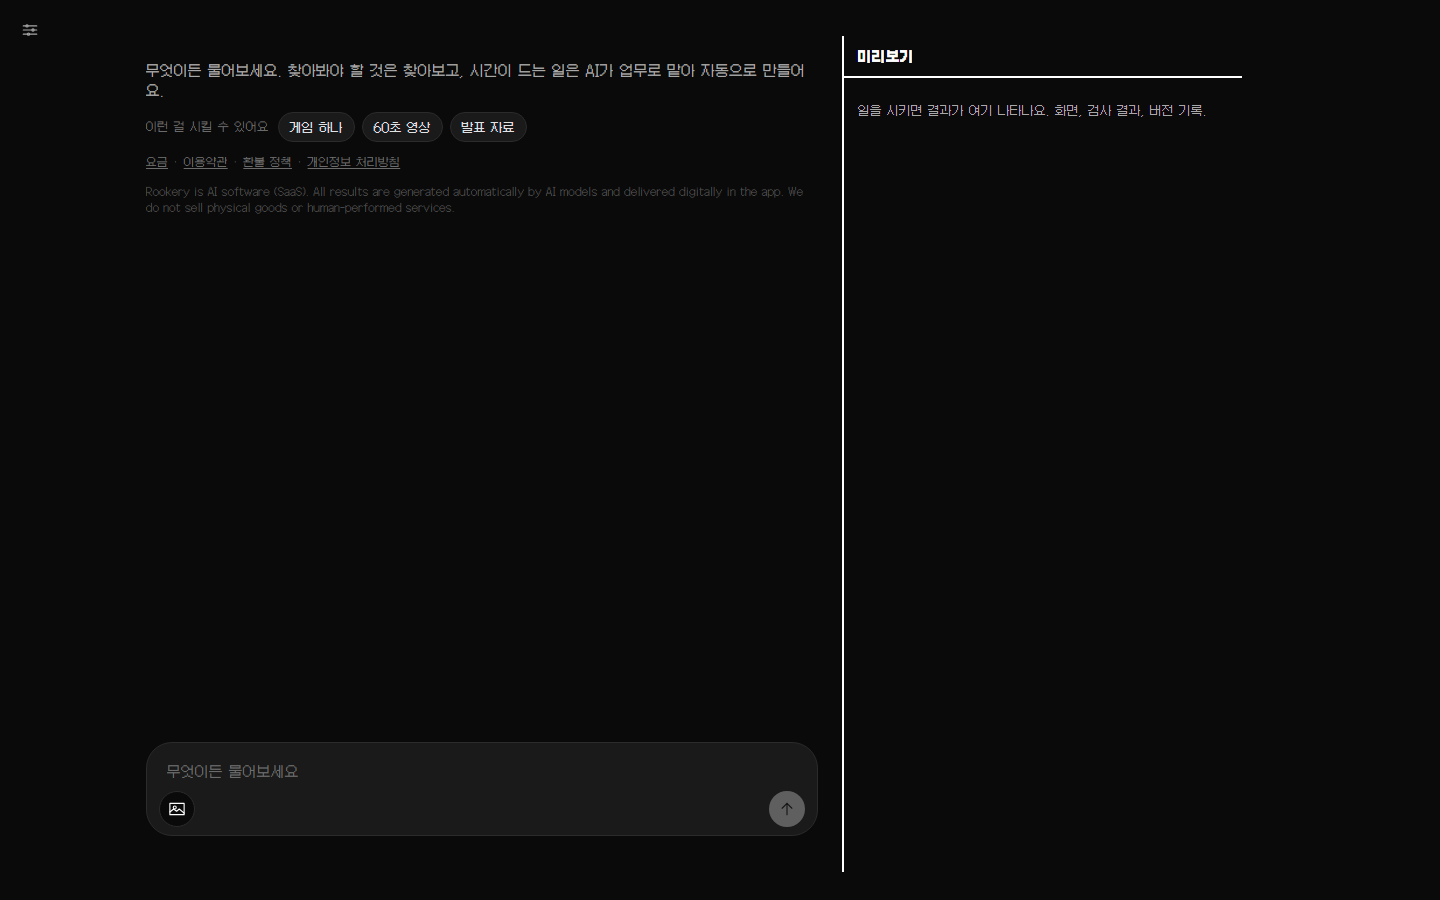
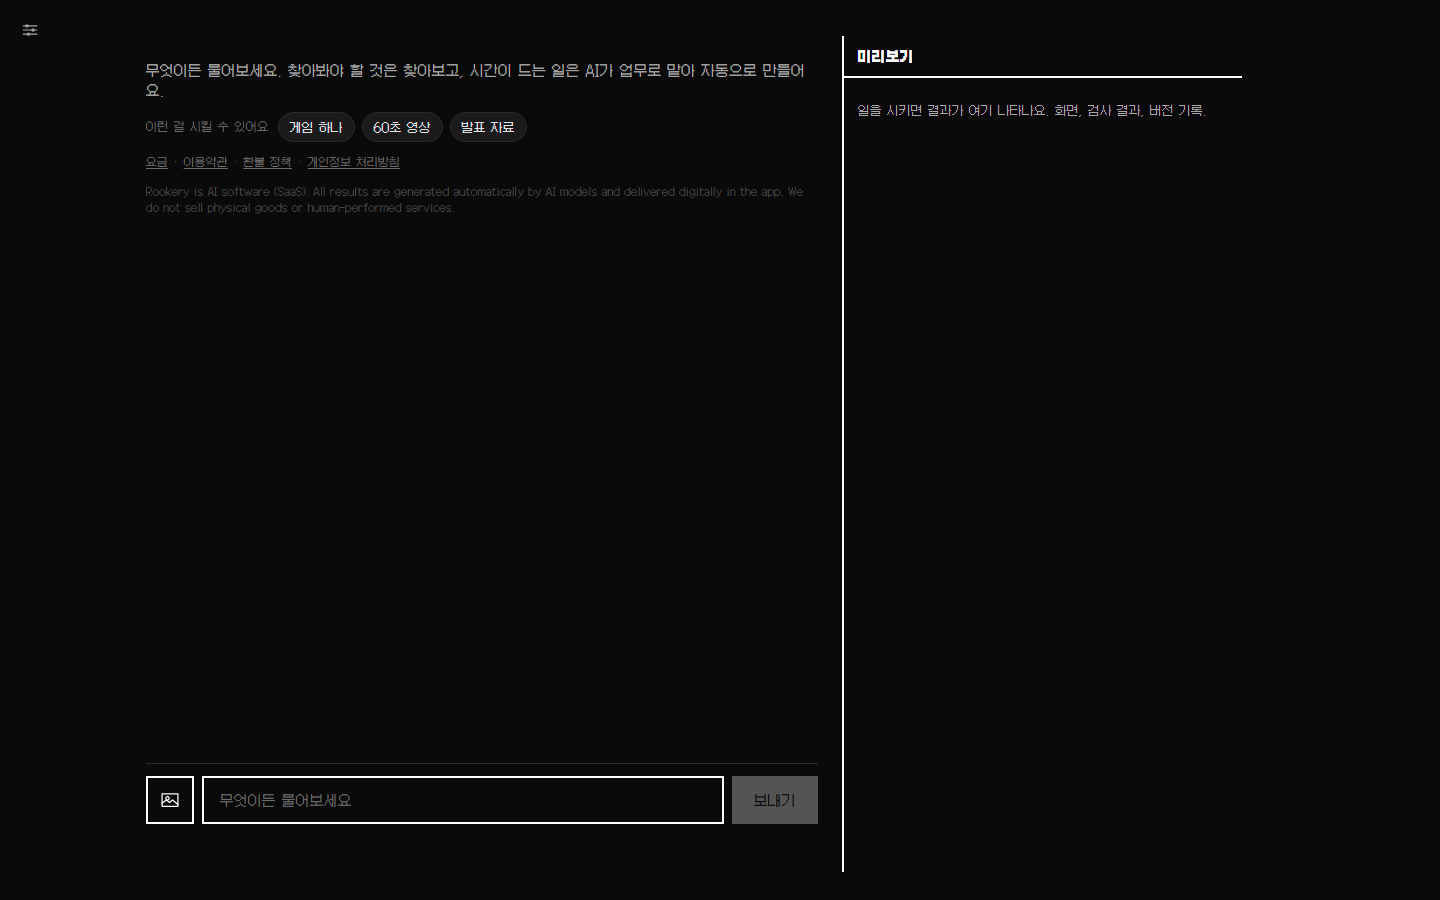
Revert "대화창을 입력칸 바로 위로 내림"
This reverts commit cb8254a285f39897b047e23f634576113b7e258b.

Changed region(s): [[0.0938, 0.84, 0.5938, 0.9333]]

diff --git a/src/app/ask/AskClient.tsx b/src/app/ask/AskClient.tsx
@@ -544,14 +544,7 @@ export default function AskClient({
       </div>
       )}
 
-      {/*
-        10-09 사장님 "대화창 좀 내려봐". 글이 맨 위에 붙고 가운데가 텅 비어 있었다 —
-        대화는 **입력칸 바로 위에서** 시작해야 방금 오간 말이 손 가까이에 있다.
-        `justify-end` 를 스크롤 상자에 바로 주면 넘칠 때 위쪽이 잘려 못 올라간다.
-        그래서 상자는 그냥 스크롤만 맡고, 안쪽 칸이 `min-h-full` 로 키를 채운 뒤 아래로 민다.
-      */}
-      <div className="flex-1 overflow-y-auto py-6">
-        <div className="flex min-h-full flex-col justify-end space-y-4">
+      <div className="flex-1 space-y-4 overflow-y-auto py-6">
         {/*
           빈 화면에 다섯을 세워 뒀다가 뺐다(2026-08-31 사장님 지시). 얼굴은
           **일하는 중일 때** 나오는 것으로 남긴다 — 아무 일도 없는데 서 있으면
@@ -760,7 +753,6 @@ export default function AskClient({
           <Waiting stage={doing} className="text-[var(--rk-400)]" />
         )}
         <div ref={endRef} />
-        </div>
       </div>
 
       {last?.options && last.options.length > 0 && !busy && (
